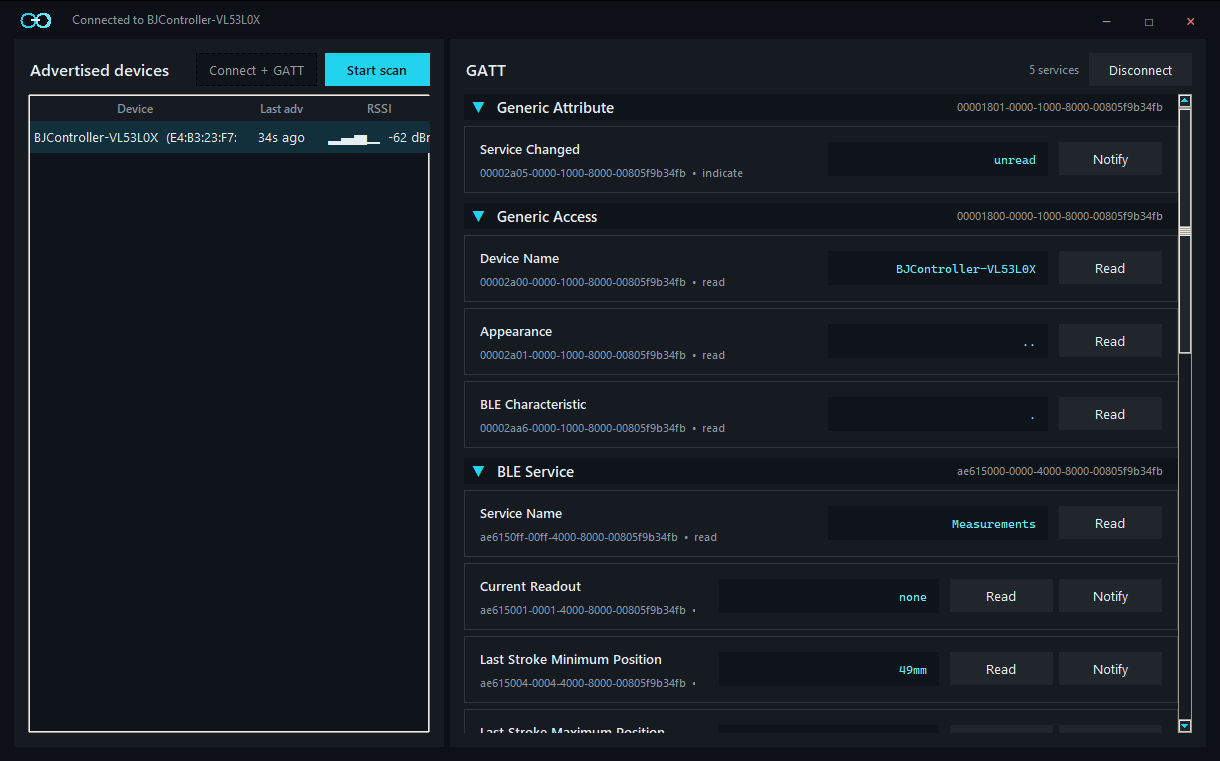
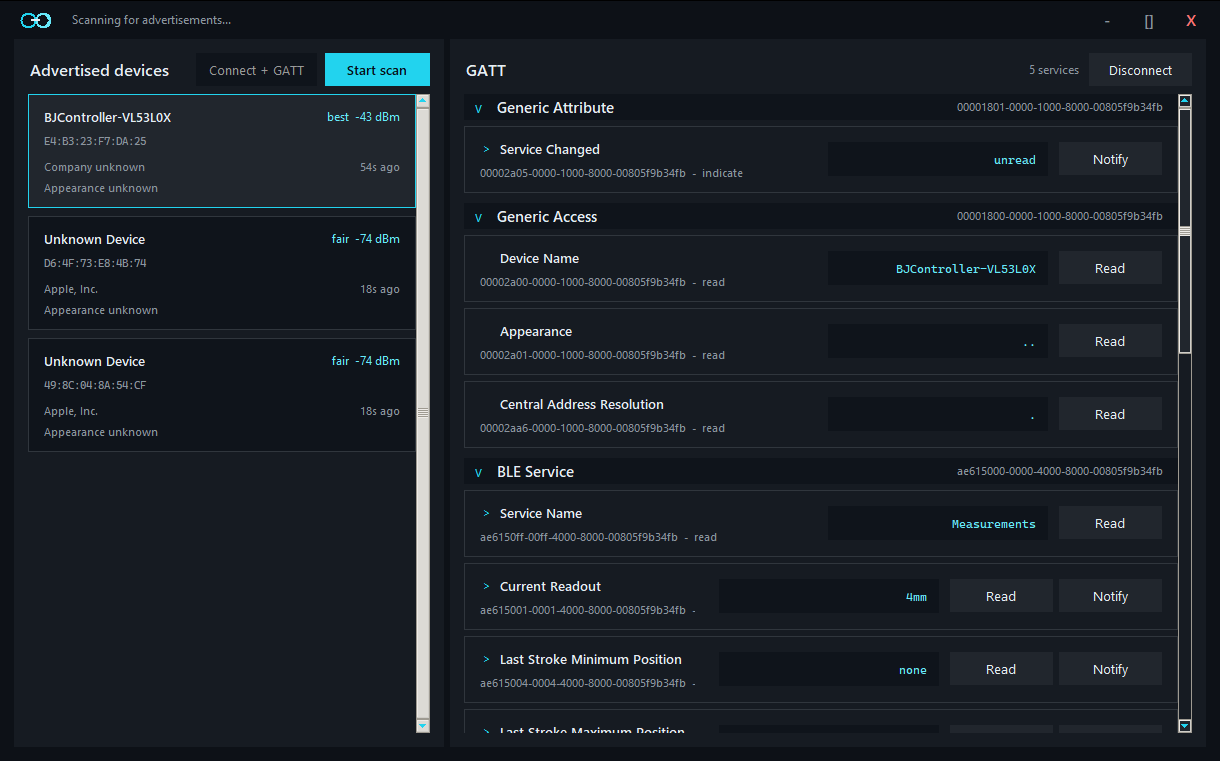
Added scrolling support for panels and updated screenshot

diff --git a/ui/scrolling.py b/ui/scrolling.py
@@ -1,0 +1,33 @@
+from __future__ import annotations
+
+import tkinter as tk
+
+
+def bind_canvas_mousewheel(canvas: tk.Canvas) -> None:
+    canvas.bind_all("<MouseWheel>", lambda event: _scroll_if_pointer_inside(canvas, event), add=True)
+    canvas.bind_all("<Button-4>", lambda event: _scroll_if_pointer_inside(canvas, event), add=True)
+    canvas.bind_all("<Button-5>", lambda event: _scroll_if_pointer_inside(canvas, event), add=True)
+
+
+def _scroll_if_pointer_inside(canvas: tk.Canvas, event: tk.Event) -> str | None:
+    if not _pointer_inside(canvas, event):
+        return None
+
+    if getattr(event, "num", None) == 4:
+        units = -1
+    elif getattr(event, "num", None) == 5:
+        units = 1
+    else:
+        delta = getattr(event, "delta", 0)
+        units = -1 if delta > 0 else 1
+
+    canvas.yview_scroll(units, "units")
+    return "break"
+
+
+def _pointer_inside(widget: tk.Widget, event: tk.Event) -> bool:
+    x = event.x_root
+    y = event.y_root
+    left = widget.winfo_rootx()
+    top = widget.winfo_rooty()
+    return left <= x < left + widget.winfo_width() and top <= y < top + widget.winfo_height()

diff --git a/ui/panels/devices/panel.py b/ui/panels/devices/panel.py
@@ -11,6 +11,7 @@ from helpers.formatting import format_elapsed
 from models import DiscoveredDevice
 from ui.panels.devices.device_card import create_device_card, update_device_card
 from ui.panels.devices.header import build_devices_header
+from ui.scrolling import bind_canvas_mousewheel
 
 
 def build_devices_panel(app: tk.Tk, parent: ttk.Frame) -> None:
@@ -25,6 +26,7 @@ def build_devices_panel(app: tk.Tk, parent: ttk.Frame) -> None:
     app.device_canvas_window = app.device_canvas.create_window((0, 0), window=app.device_frame, anchor="nw")
     app.device_frame.bind("<Configure>", lambda _: app.device_canvas.configure(scrollregion=app.device_canvas.bbox("all")))
     app.device_canvas.bind("<Configure>", lambda event: app.device_canvas.itemconfigure(app.device_canvas_window, width=event.width))
+    bind_canvas_mousewheel(app.device_canvas)
 
 
 def select_device(app: tk.Tk, address: str) -> None:

diff --git a/ui/panels/gatt/panel.py b/ui/panels/gatt/panel.py
@@ -9,6 +9,7 @@ from ui.panels.gatt.characteristic_card import render_characteristic_card
 from ui.panels.gatt.descriptor_card import render_descriptor_card
 from ui.panels.gatt.header import build_gatt_header
 from ui.panels.gatt.service_header import render_service_header
+from ui.scrolling import bind_canvas_mousewheel
 
 
 def build_gatt_panel(app: tk.Tk, parent: ttk.Frame) -> None:
@@ -23,6 +24,7 @@ def build_gatt_panel(app: tk.Tk, parent: ttk.Frame) -> None:
     app.canvas_window = app.canvas.create_window((0, 0), window=app.gatt_frame, anchor="nw")
     app.gatt_frame.bind("<Configure>", lambda _: app.canvas.configure(scrollregion=app.canvas.bbox("all")))
     app.canvas.bind("<Configure>", lambda event: app.canvas.itemconfigure(app.canvas_window, width=event.width))
+    bind_canvas_mousewheel(app.canvas)
 
 
 def clear_gatt(app: tk.Tk) -> None:
